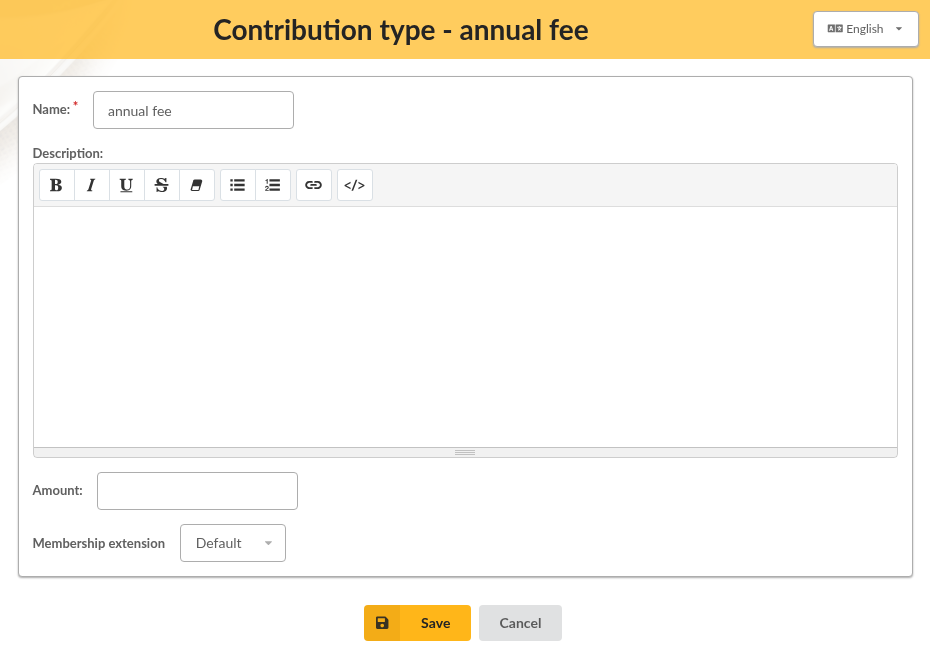
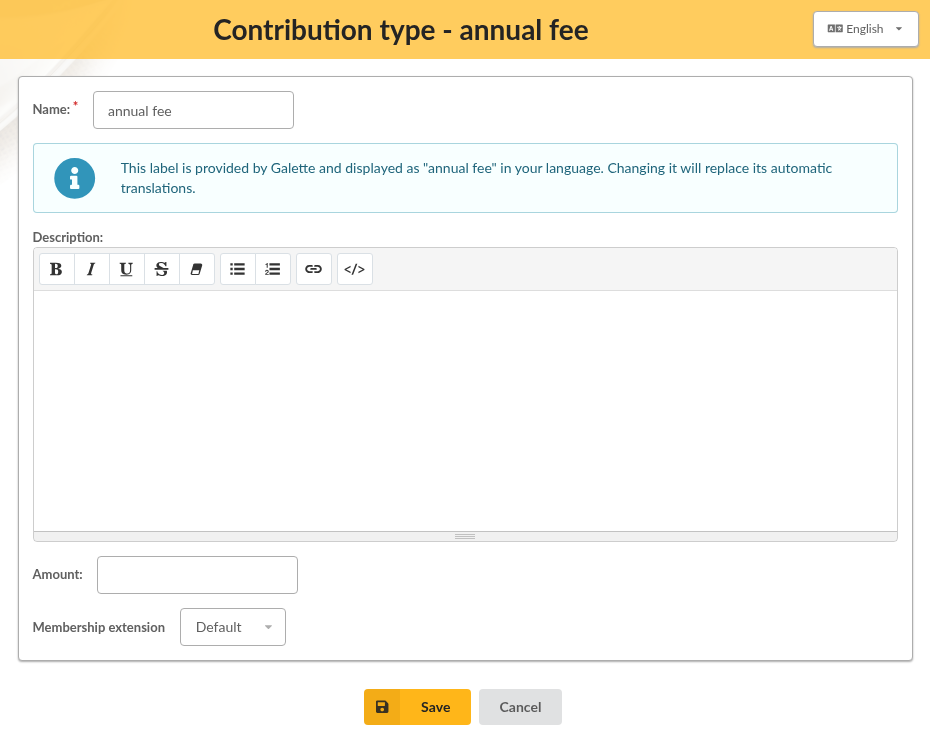
Add labels translation screenshots

diff --git a/source/usermanual/configuration.rst b/source/usermanual/configuration.rst
@@ -146,6 +146,11 @@ A new label is considered as written in the current language of Galette: its tra
 
 Go to **Configuration**, then **Labels translation**, select the label, and type its translation in each language. The **Translate** icon of the statuses, contribution types, payment types and dynamic fields lists, and the **Translate** links of the preferences, open the same form for one label only.
 
+.. image:: ../_styles/static/images/usermanual/labels_translation_own.png
+   :scale: 50%
+   :align: center
+   :alt: Translating a label typed in French
+
 .. _labels_translation_core:
 
 Labels provided by Galette
@@ -157,7 +162,17 @@ Labels provided by Galette
 
 Default statuses, contribution types and payment types are provided by Galette, and are translated along with the software. Their translation form displays those translations, read-only: to improve one of them, contribute to the `Galette translation on Weblate <https://hosted.weblate.org/projects/galette/>`_.
 
+.. image:: ../_styles/static/images/usermanual/labels_translation_core.png
+   :scale: 50%
+   :align: center
+   :alt: Read-only translations of a label provided by Galette
+
 Their edit form reminds that changing such a label replaces its automatic translations: the new label is then a text of your own, to be translated like any other.
+
+.. image:: ../_styles/static/images/usermanual/lists_contribution_type_form.png
+   :scale: 50%
+   :align: center
+   :alt: Editing a contribution type
 
 .. _labels_translation_change:
 
@@ -174,6 +189,11 @@ When you change one of your own labels, its edit form proposes to **keep its tra
 * **Unchecked**: translations are reset, as for a new label. Uncheck it when the meaning changes, since existing translations would no longer be right.
 
 In both cases, the translation in the current language becomes the new label.
+
+.. image:: ../_styles/static/images/usermanual/labels_translation_keep.png
+   :scale: 50%
+   :align: center
+   :alt: Keeping translations when changing a dynamic field name
 
 The same label can be used by several objects, a status and a contribution type for example: they share the same translations, which are kept as long as one of them still uses the label.
 
